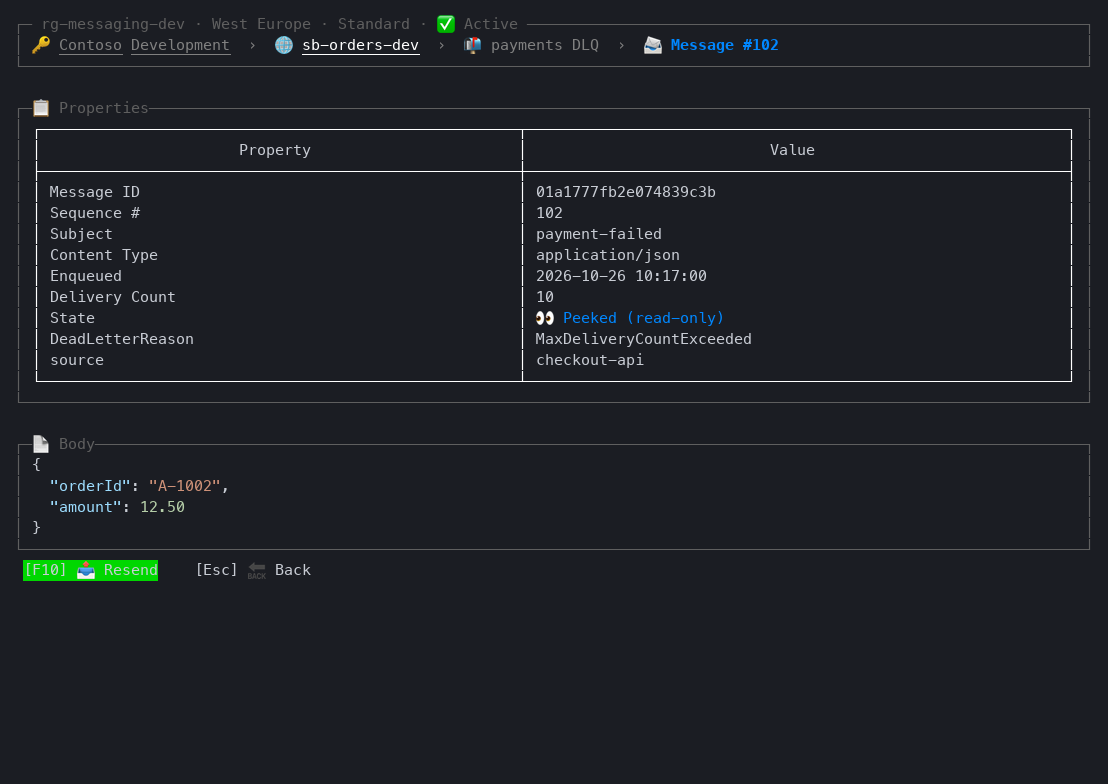
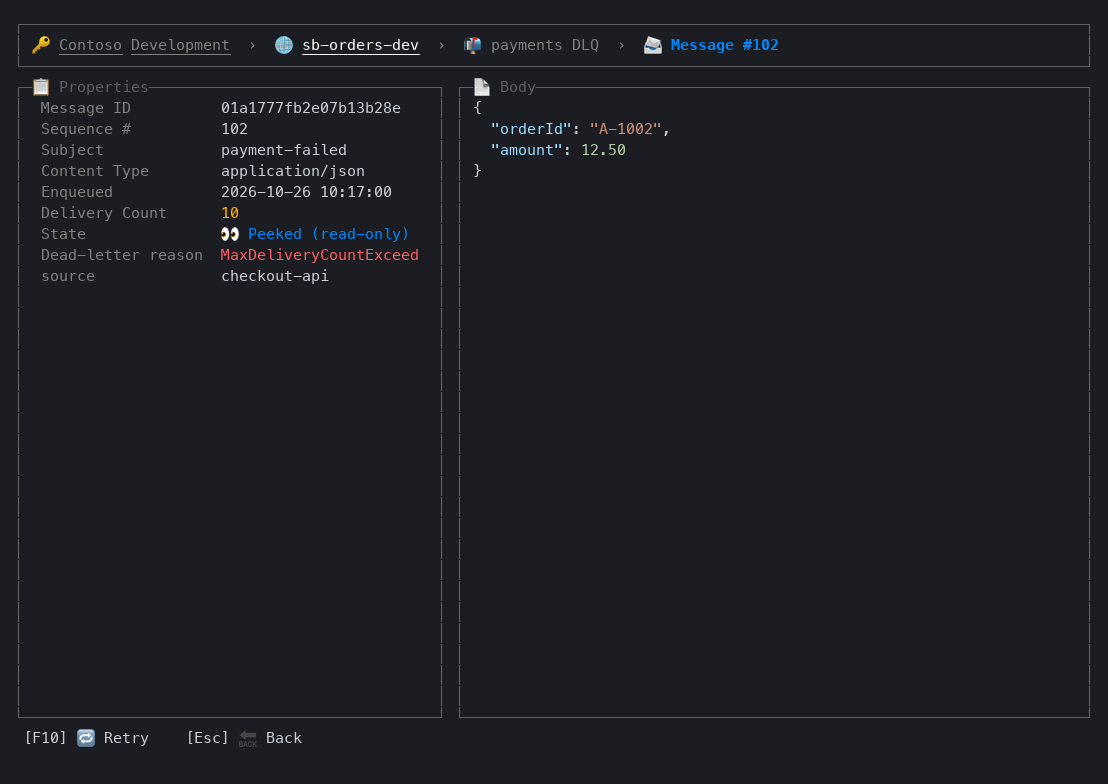
docs(readme): regenerate screenshots; add retry and live-count shots (#57)
- All screenshots regenerated after #40, #43, #56
- New: queues-live, retry-confirm, retry-progress, retry-result
- README sections for live counts and retry

diff --git a/README.md b/README.md
@@ -47,15 +47,27 @@ dotnet tool update -g Net.Azure.ServiceBusConsole
 
 ![Queue list](https://raw.githubusercontent.com/zidad/azure-servicebus-console/main/docs/screenshots/queues.png)
 
+**Live counts**: lists poll every 15 seconds; a changed count flashes and fades
+
+![Queue list with a changed count](https://raw.githubusercontent.com/zidad/azure-servicebus-console/main/docs/screenshots/queues-live.png)
+
 **Header dropdowns**: switch namespace (or subscription, or section) in place
 
 ![Namespace dropdown](https://raw.githubusercontent.com/zidad/azure-servicebus-console/main/docs/screenshots/namespace-dropdown.png)
 
 ![Section dropdown](https://raw.githubusercontent.com/zidad/azure-servicebus-console/main/docs/screenshots/section-dropdown.png)
 
-**Message browser**: dead-letter reasons, delivery counts, multi-select
+**Message browser**: dead-letter reasons, delivery counts, multi-select, preview of the message under the cursor
 
 ![Message browser](https://raw.githubusercontent.com/zidad/azure-servicebus-console/main/docs/screenshots/message-browser.png)
+
+**Retry**: confirm the flow, follow its progress, check the result
+
+![Retry confirm](https://raw.githubusercontent.com/zidad/azure-servicebus-console/main/docs/screenshots/retry-confirm.png)
+
+![Retry progress](https://raw.githubusercontent.com/zidad/azure-servicebus-console/main/docs/screenshots/retry-progress.png)
+
+![Retry result](https://raw.githubusercontent.com/zidad/azure-servicebus-console/main/docs/screenshots/retry-result.png)
 
 **Message detail**: properties and highlighted JSON body
 
